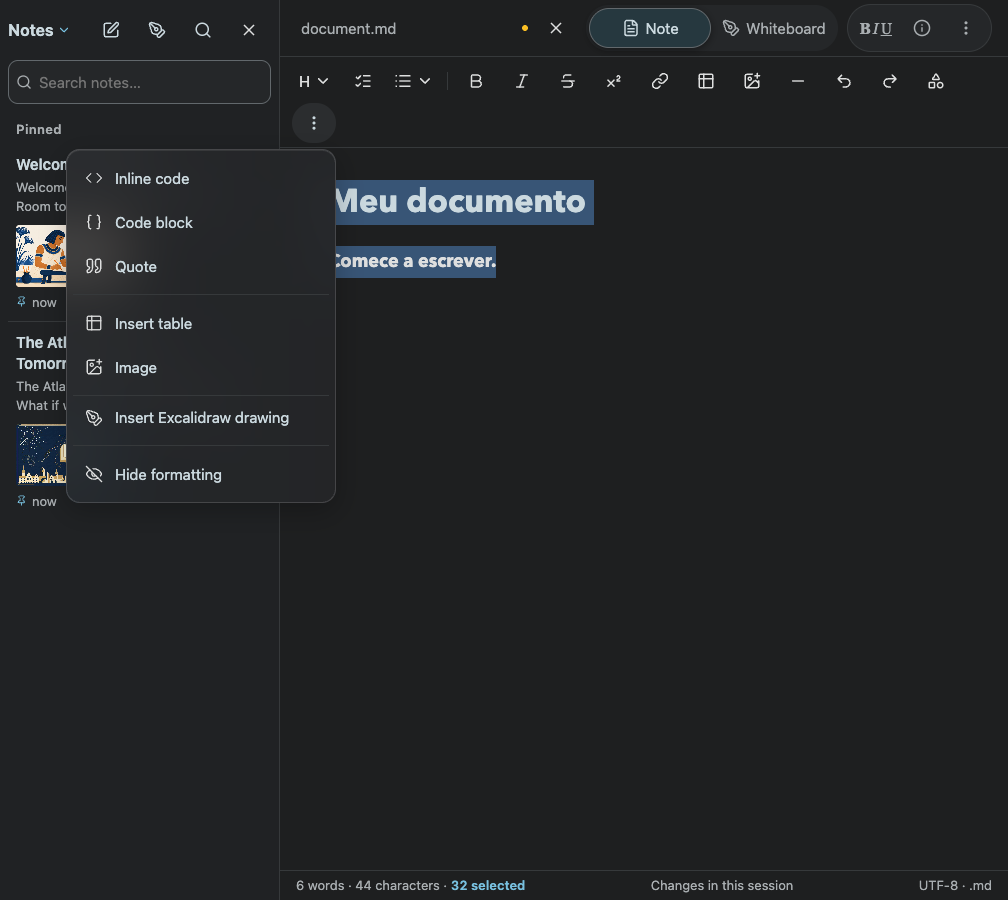
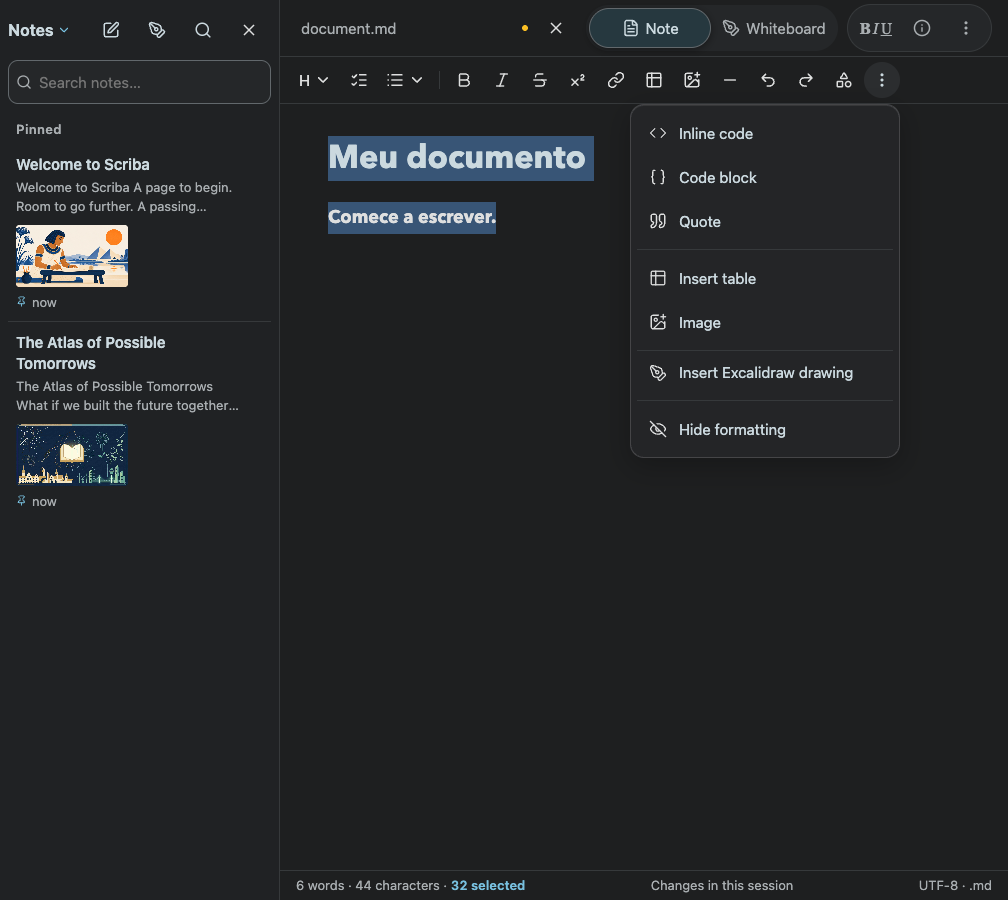
fix: keep expanded formatting controls on one desktop row

diff --git a/src/components/Markdown/MarkdownWorkbench.module.css b/src/components/Markdown/MarkdownWorkbench.module.css
@@ -442,3 +442,6 @@
 @media (max-width: 480px) {
  .compact.workbench[data-formatting-open="true"] > .cleanFormatting { flex-wrap: wrap; overflow-x: hidden; }
 }
+@media (min-width: 900px) and (hover: hover) and (pointer: fine) {
+ .compact.workbench > .cleanFormatting button { min-width: 36px; min-height: 36px; }
+}
